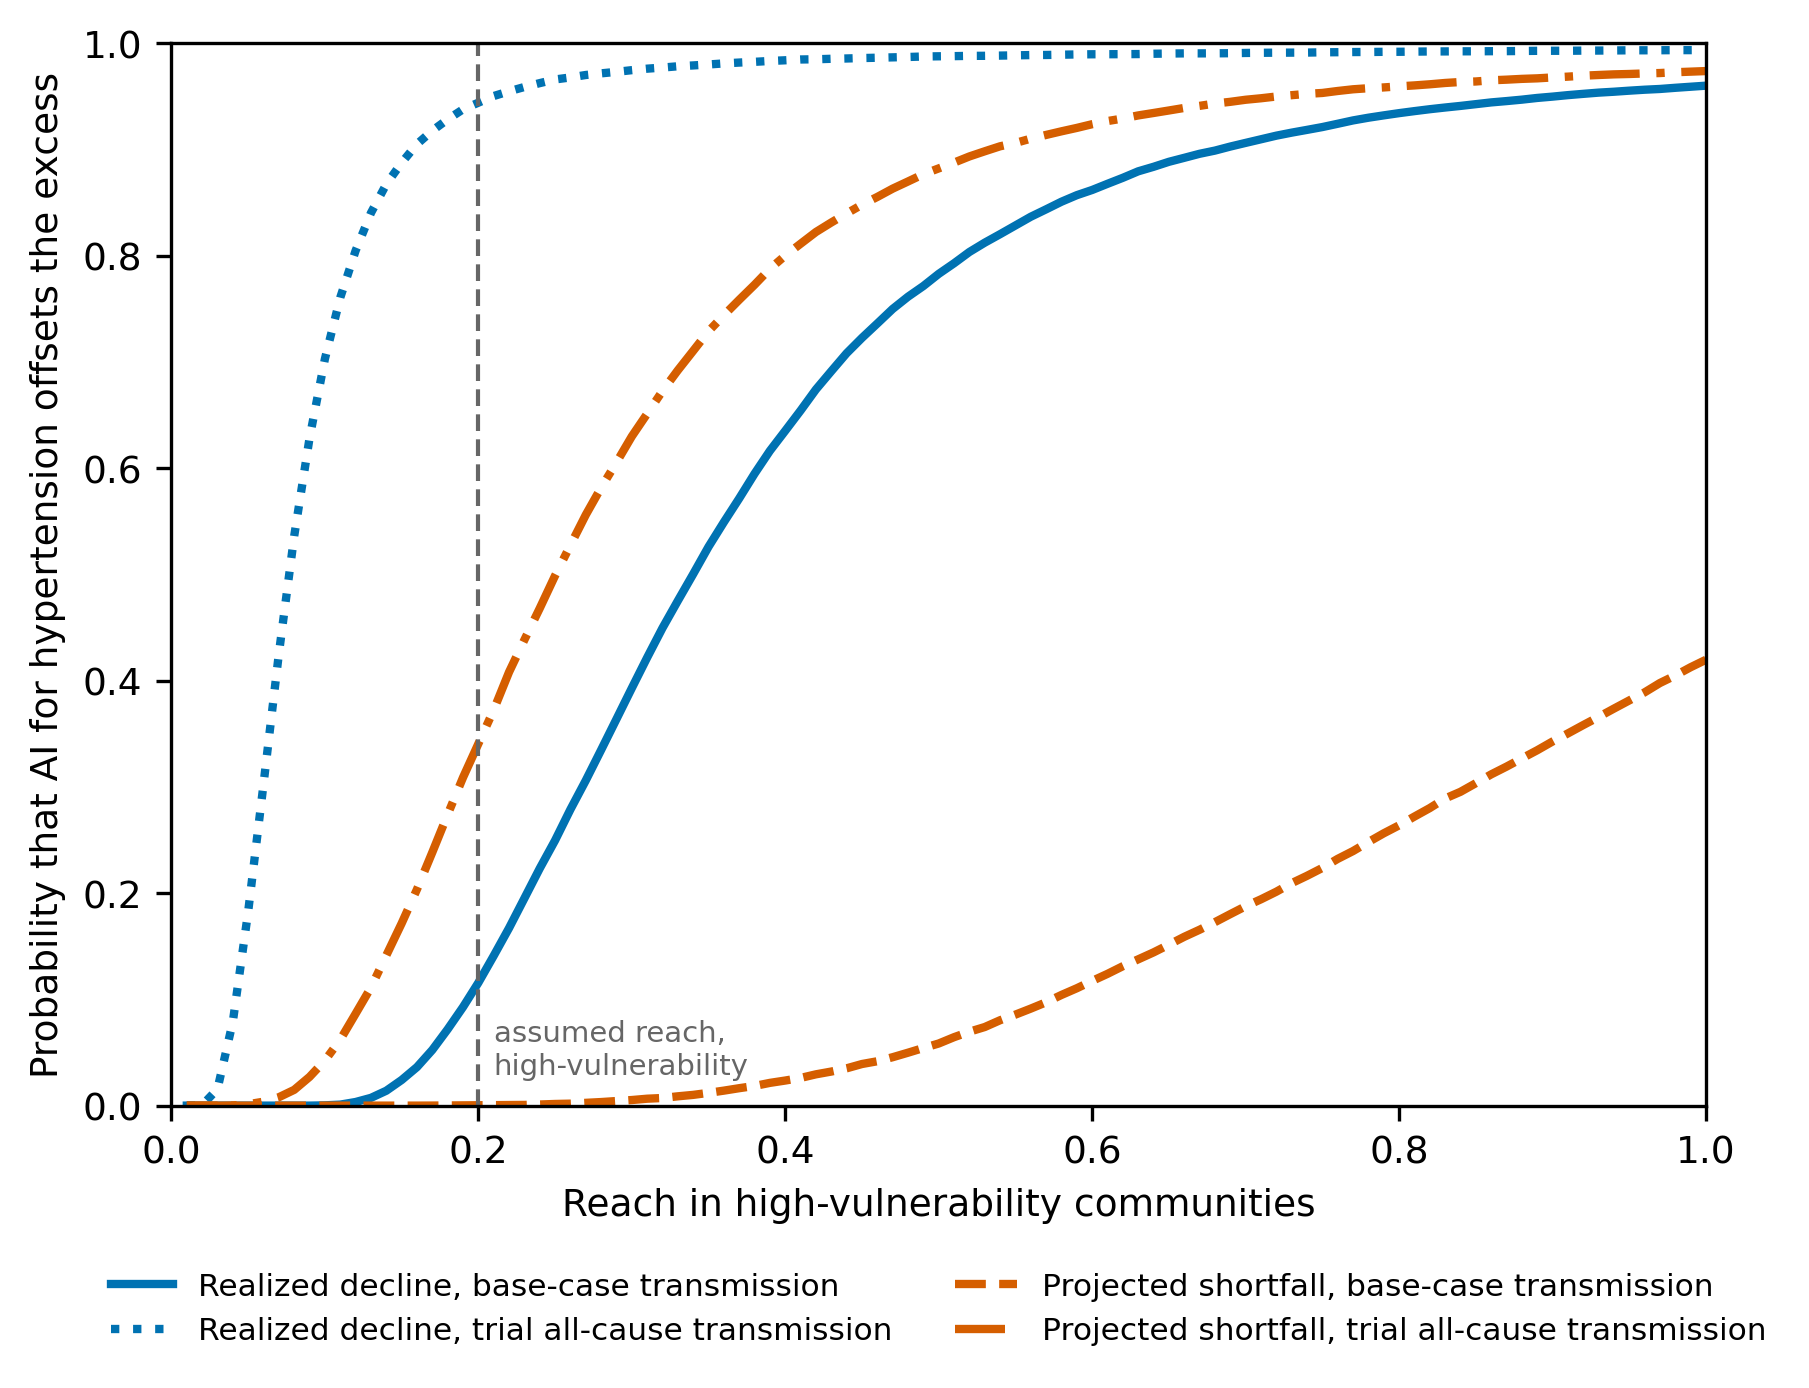
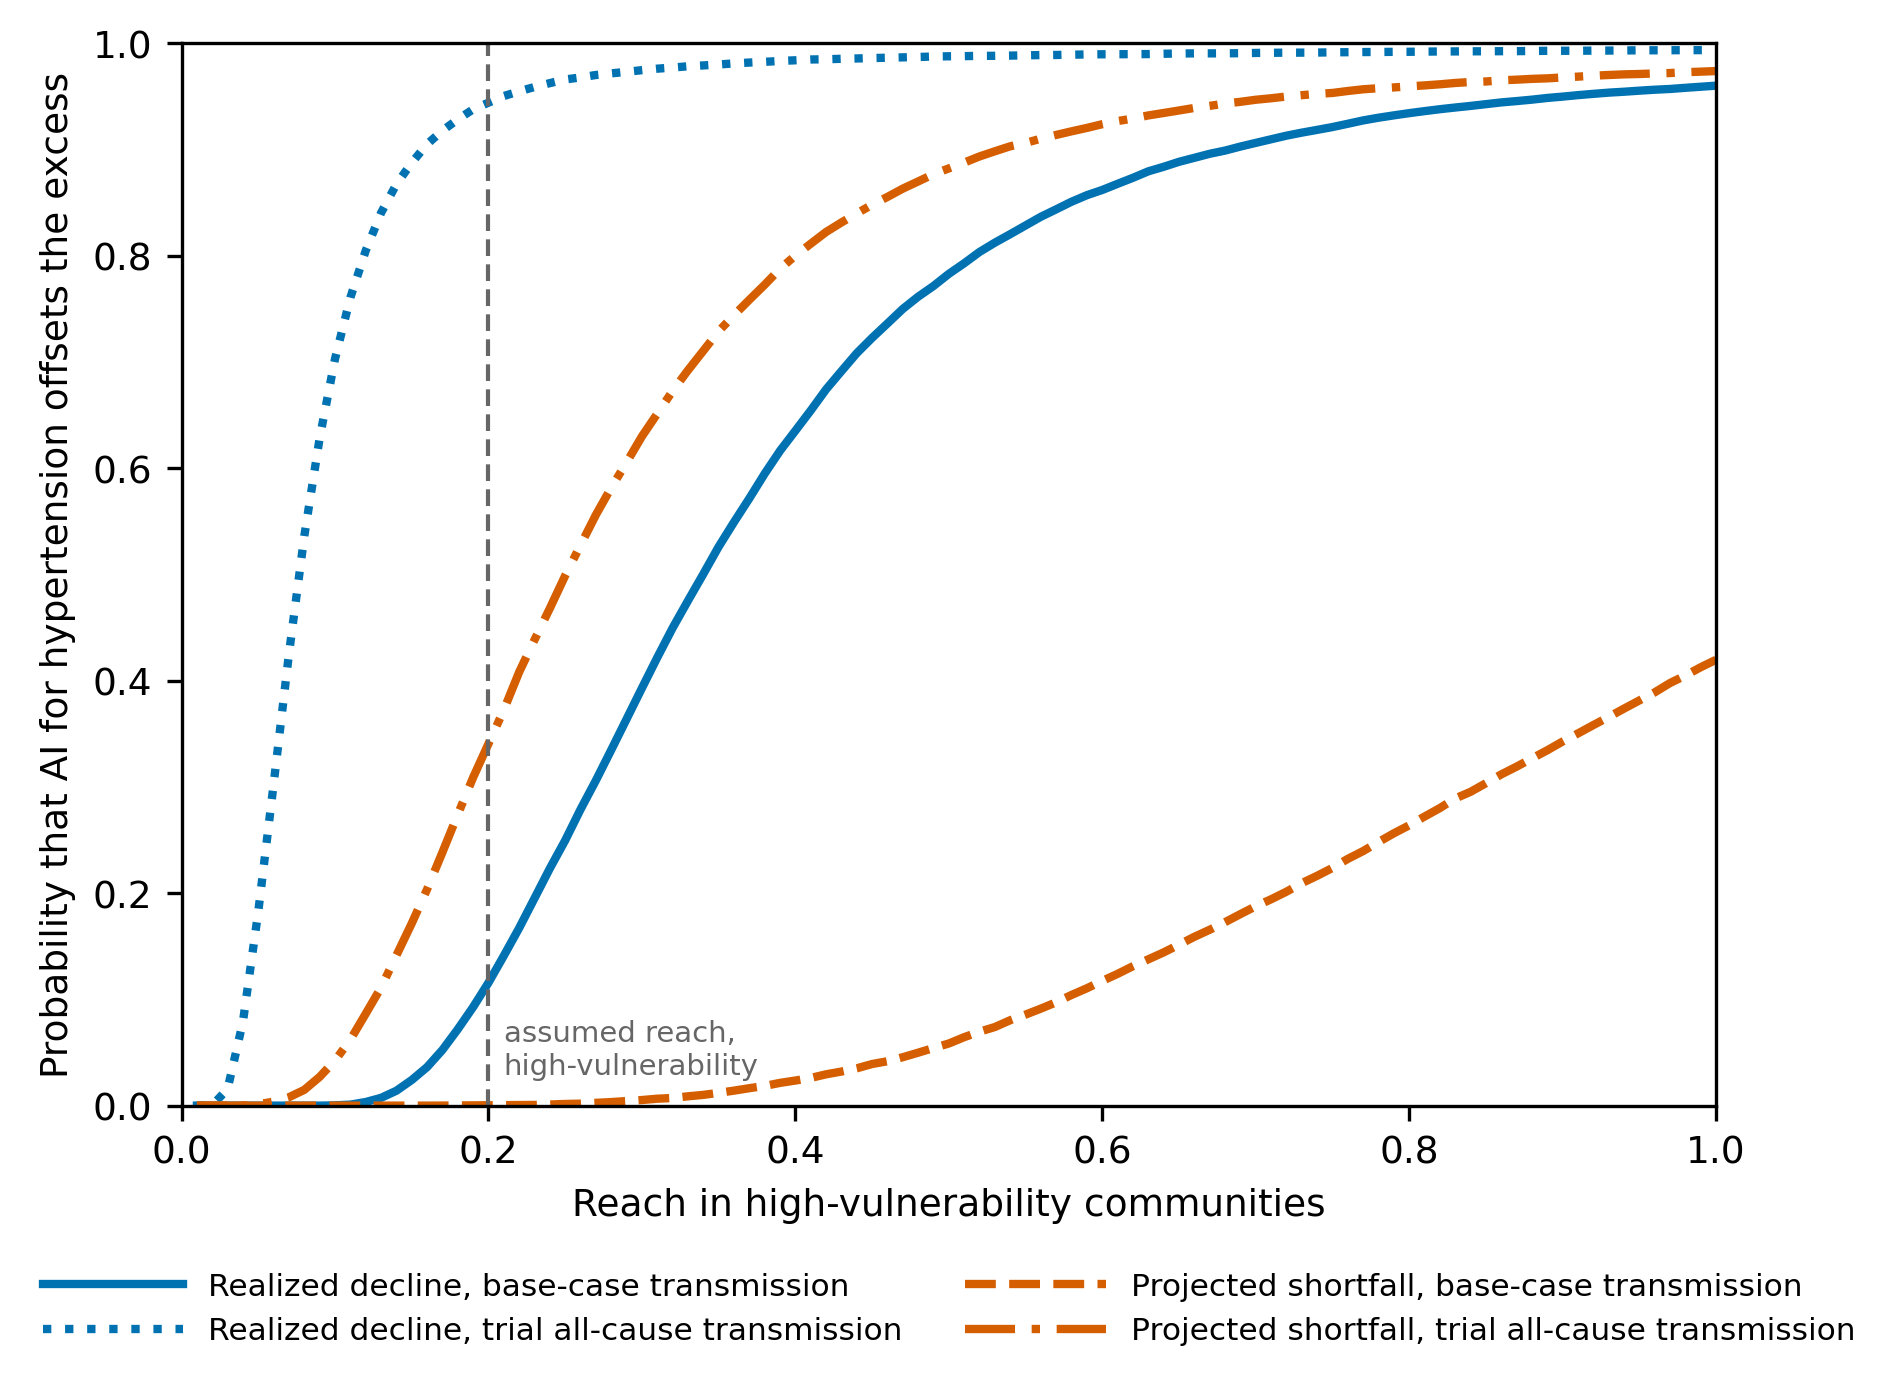
Figure 3: lengthen legend handles so line styles match plotted lines

diff --git a/make_figures.py b/make_figures.py
@@ -93,7 +93,7 @@ def fig3_acceptability():
     ax.set_xlim(0, 1); ax.set_ylim(0, 1.0)
     ax.set_xlabel("Reach in high-vulnerability communities")
     ax.set_ylabel("Probability that AI for hypertension offsets the excess")
-    ax.legend(loc="upper center", bbox_to_anchor=(0.5, -0.13), ncol=2, fontsize=7.5, frameon=False)
+    ax.legend(loc="upper center", bbox_to_anchor=(0.5, -0.13), ncol=2, fontsize=7.5, frameon=False, handlelength=4.5)
     save(fig, "figure3_acceptability")
 
 
